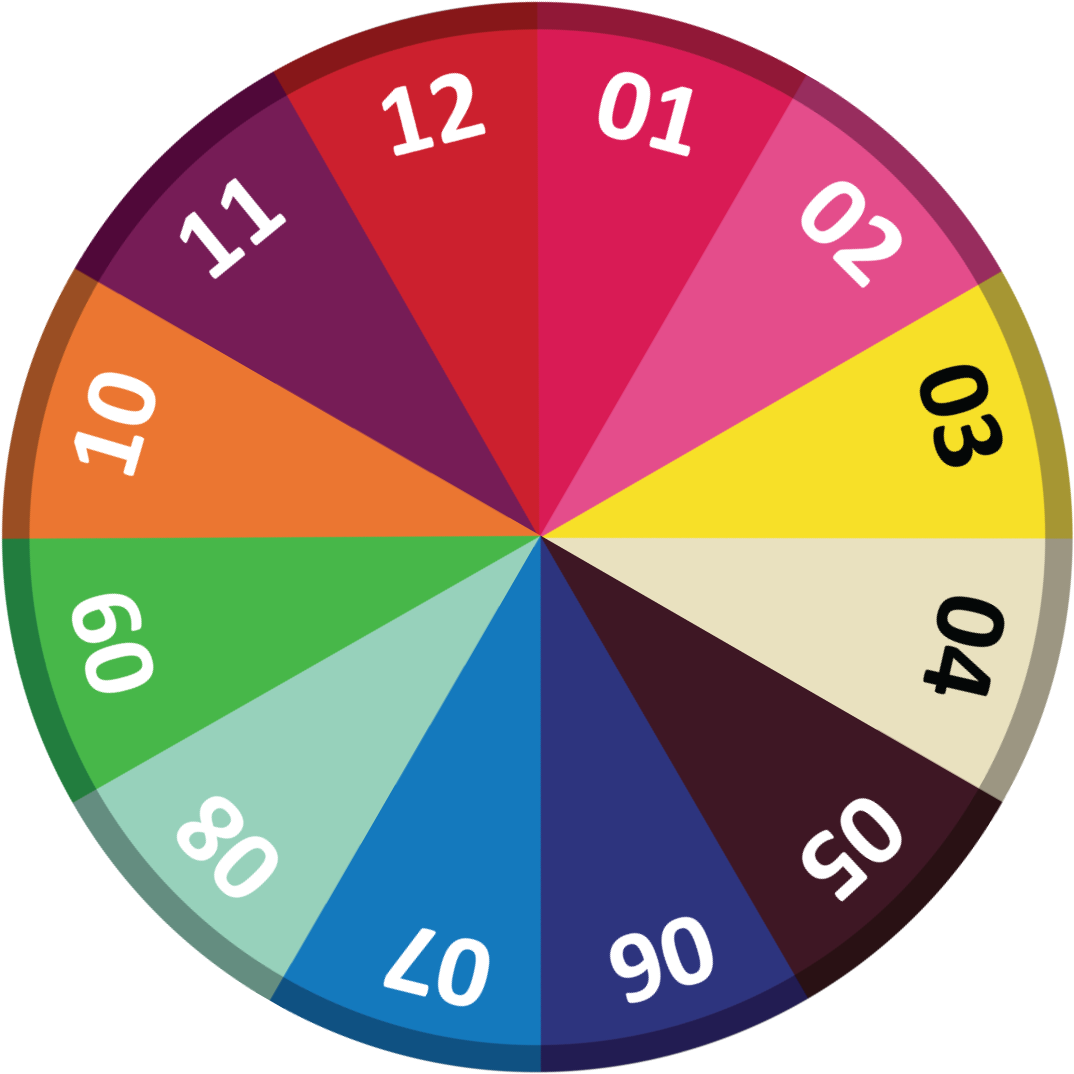
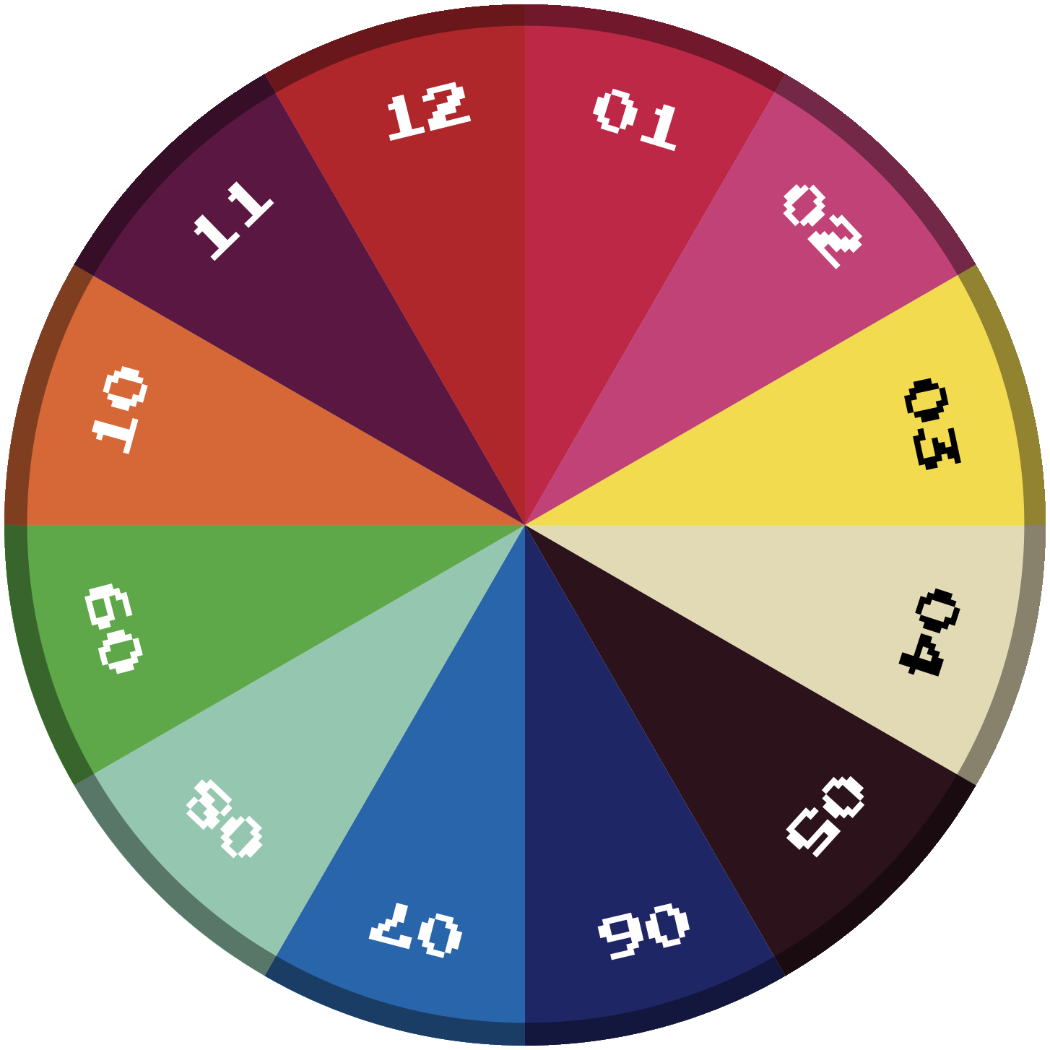
Changed mechanics slightly, image is now made by a canvas

diff --git a/script.js b/script.js
@@ -243,25 +243,6 @@ Force Prizes, need to input an angle
 		271-300:  3
 		301-330:  2
 		331-360:  1
-
-*/
-
-
-
-//SmoothRotate function defined here
-$.fn.SmoothRotate = function(oldAngle, angle, duration, easing, complete) {
-  var args = $.speed(duration, easing, complete);
-  var step = args.step;
-  return this.each(function(i, e) {
-    args.complete = $.proxy(args.complete, e);
-    args.step = function(now) {
-      $.style(e, 'transform', 'rotate(' + now + 'deg)');
-      if (step) return step.apply(e, arguments);
-    };
-
-    $({deg: oldAngle}).animate({deg: angle}, args);
-  });
-};
 /*
 var isSpinning = false;
 
@@ -325,26 +306,38 @@ $(document).ready(function(){
 */
 
 
-function sleep(milliseconds) {
-  var start = new Date().getTime();
-  for (var i = 0; i < 1e7; i++) {
-    if ((new Date().getTime() - start) > milliseconds){
-      break;
-    }
-  }
-}
+//SmoothRotate function defined here
+$.fn.SmoothRotate = function(oldAngle, angle, duration, easing, complete) {
+  var args = $.speed(duration, easing, complete);
+  var step = args.step;
+  return this.each(function(i, e) {
+    args.complete = $.proxy(args.complete, e);
+    args.step = function(now) {
+      $.style(e, 'transform', 'rotate(' + now + 'deg)');
+      if (step) return step.apply(e, arguments);
+    };
+
+    $({deg: oldAngle}).animate({deg: angle}, args);
+  });
+};
 
 var isSpinning = false;
 var timeIncrement = 50;
 var angleIncrement = 120;
 var iterations = 5;
 
+//t - time, oa - old angle, na - new angle, iter - number of iterations, e - end angle, t2 - end time, final - final number attained - not neccessary)
 var spinner = function(t, oa, na, iter, e, t2, final){
+	//Turn the wheel
 	$('#test').SmoothRotate(oa, na, t, 'linear', function () {});
+	//Slow down the wheel at each angleIncrement
 	var tincrease = (iterations-iter)*timeIncrement;
 	t += tincrease; //Increase the time taken for one angleIncrement, would it be better to keep time constant but reduce angle? - Tested, multiple issues experienced, not desireable.
+	//Update the new/old angle
 	oa = na;
 	na += angleIncrement;
+
+	//Check if we should 
 	if (iter > 0){
 		iter--;
 		setTimeout(function(){

diff --git a/index.html b/index.html
@@ -22,19 +22,23 @@ Went for option 1, used an animated loop for the pointer. Still need to work on 
 	<body>
 
 		<!--Spin and win machine here-
-		<div class="wheel_holder">
-			<canvas id="wheel_of_fortune" width="600" height="600"></canvas>
-		</div>-->
 		<div id="container" style="width:700px; height:800px; margin: auto">
 			<div style="width: 100%;">
 				<img id="test" style="height:500px; width:500px; padding-top: 40px; padding-bottom: 40px; z-index: 1" src="./wheel.png">
 				<img id="spin" style="height:50px; width:50px; margin-top: -590px; z-index: 2" src="./spin_point.png">
 			</div>
+		-->
+		<div id="container" style="width:700px; height:800px; margin: auto">
+			<div style="width: 100%;">
+				<canvas style="height:500px; width:500px; padding-top: 40px; padding-bottom: 40px; z-index: 1"id="test" width="3000" height="3000"></canvas>
+				<img id="spin" style="height:50px; width:50px; margin-top: -590px; z-index: 2" src="./spin_point.png">
+			</div>
 
-			<!--Button-->
 			<div class="btn_holder">
 		 		<button class="btn">SPIN!</button>
 			</div>
 		</div>
+
 	</body>
+	<script type="text/javascript" src="./ScriptTest.js"></script>
 </html>

diff --git a/ScriptTest.js b/ScriptTest.js
@@ -1,0 +1,21 @@
+var canvas = document.getElementById("test");
+var ctx = canvas.getContext("2d");
+var lastend = 0;
+var segmentNo = 50; // If you add more data values make sure you add more colors
+var myColor = ['red', 'green', 'blue', 'yellow', 'white']; // Colors of each slice
+
+for (var i = 0; i < segmentNo; i++) {
+  	ctx.fillStyle = 'rgb(' + Math.floor(255/segmentNo*i) + ',' + Math.floor(255/segmentNo*(segmentNo-i)) + ',0)';
+  	ctx.beginPath();
+  	ctx.moveTo(canvas.width / 2, canvas.height / 2);
+  	// Arc Parameters: x, y, radius, startingAngle (radians), endingAngle (radians), antiClockwise (boolean)
+  	var x = canvas.width / 2;
+  	var y = canvas.height / 2
+  	var segmentAngle = Math.PI * 2 / segmentNo
+  	ctx.arc(x, y, y, lastend, lastend + segmentAngle, false);
+  	ctx.lineTo(canvas.width / 2, canvas.height / 2);
+  	ctx.lineWidth = 5;
+  	ctx.stroke();
+  	ctx.fill();
+  	lastend += Math.PI * 2 / segmentNo;
+}

diff --git a/style.css b/style.css
@@ -8,7 +8,7 @@ body{
 	margin:auto;
 	width:100%;
 	height: 100px;
-	bottom:50px;
+	bottom:10px;
 }
 
 .btn {
@@ -25,7 +25,7 @@ body{
  	display:block;
  	margin-left: auto;
 	margin-right: auto;
-	margin-top:530px;
+	margin-top: 500px;
 	font-family: 'Press Start 2P', cursive;
 }
 
@@ -45,6 +45,14 @@ body{
 }
 
 img{
+	position:relative;
+	margin-bottom:30px;
+	display: block;
+	margin-right: auto; 
+	margin-left: auto;
+}
+
+canvas{
 	position:relative;
 	margin-bottom:30px;
 	display: block;
